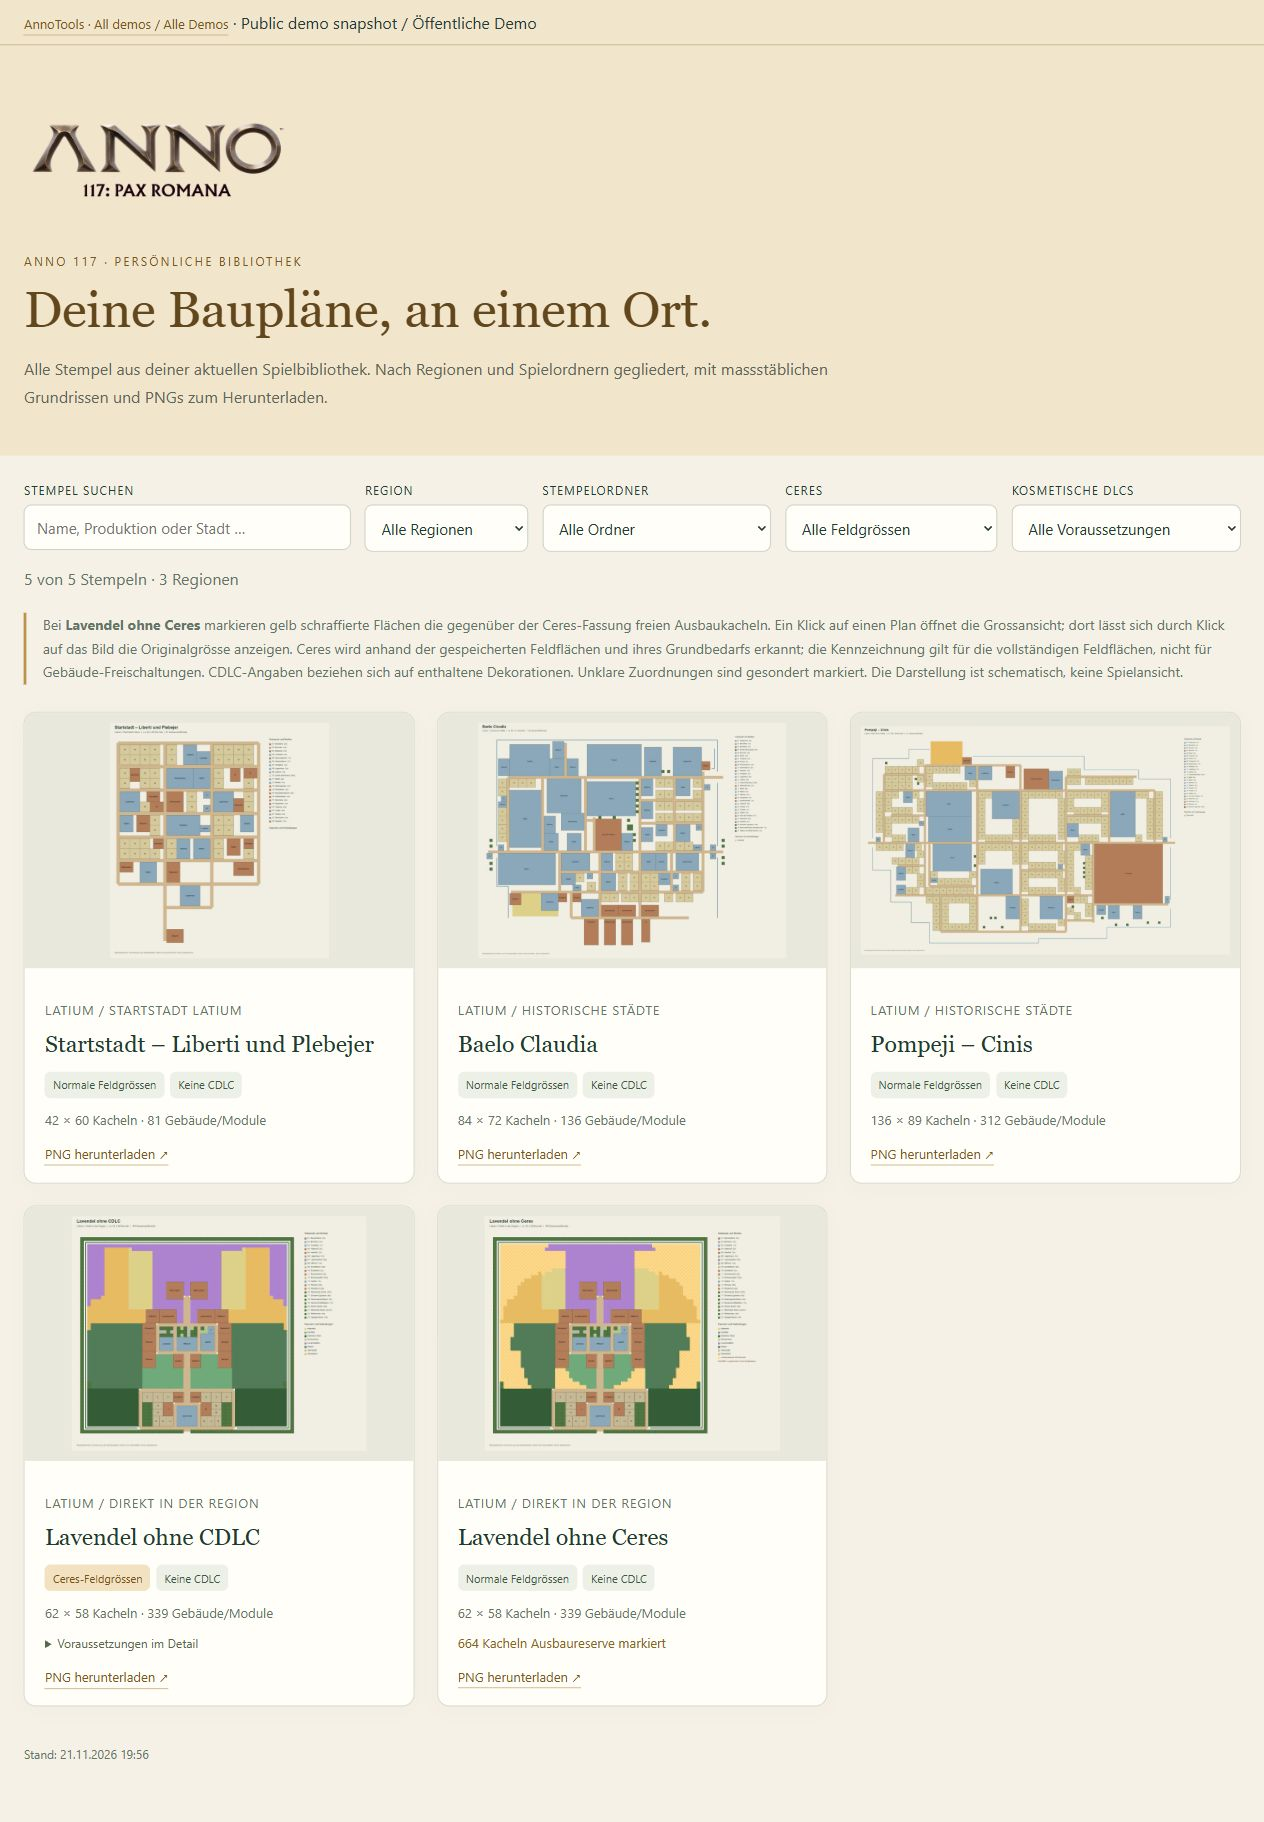
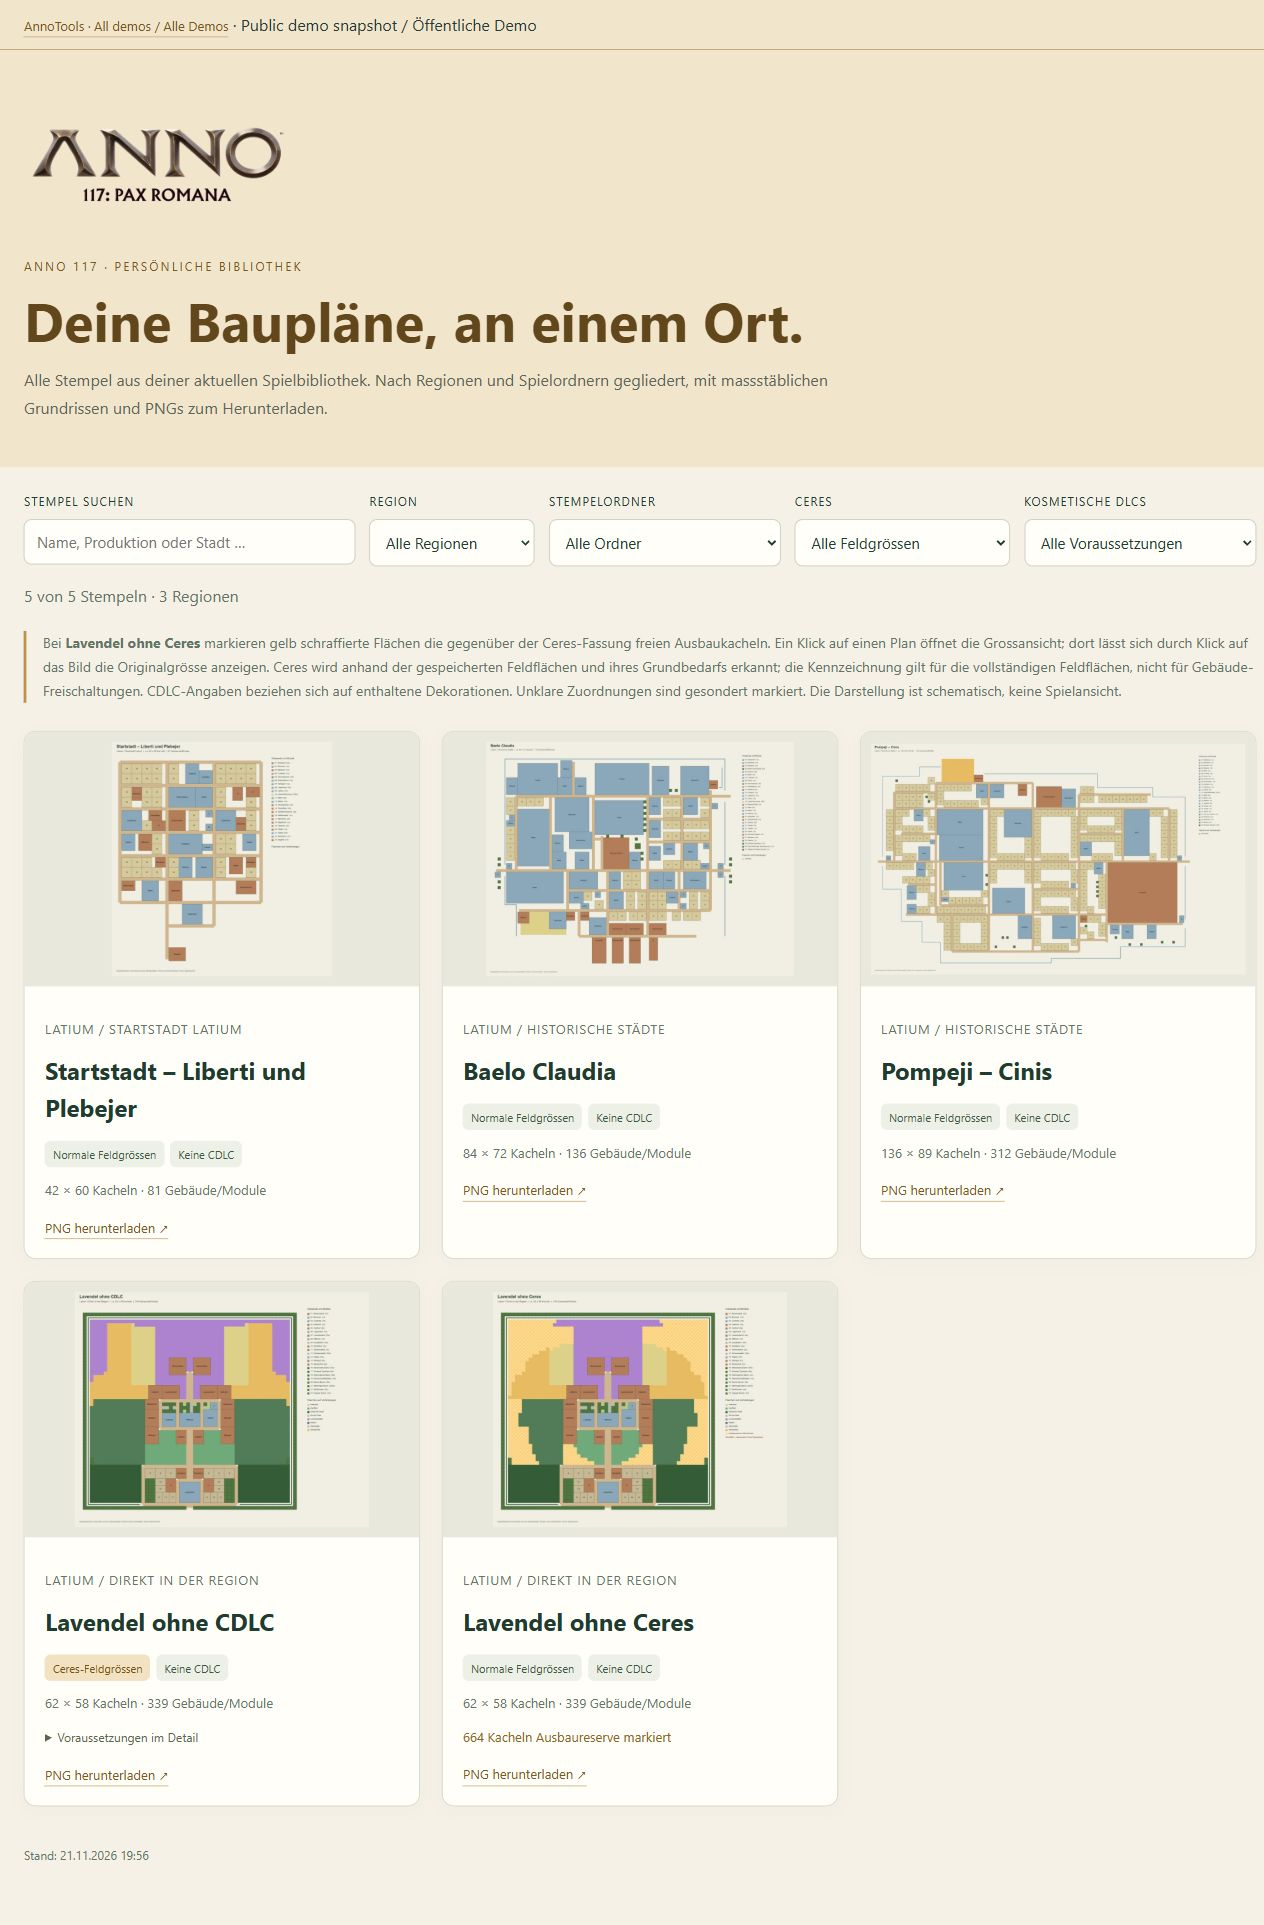
release: unify gallery typography and screenshots for v0.1.5 - Mithilfe von Codex

Changed region(s): [[0.0, 0.0615, 1.0, 0.9528], [0.2777, 0.0, 0.3703, 0.0307]]

diff --git a/site/anno1800/stamps/index.html b/site/anno1800/stamps/index.html
@@ -13,11 +13,12 @@
 </style>
 <style id="gallery-theme">:root{--gallery-scheme:dark;--gallery-background:#173345;--gallery-ink:#edf3ee;--gallery-muted:#bdd0d6;--gallery-heading:#f3d9a4;--gallery-surface:#203f51;--gallery-inset:#284b5d;--gallery-border:#587580;--gallery-link:#a7dde5}
 :root { color-scheme: light; }
-body.gallery-stamp { margin: 0; padding: 0; max-width: none; min-height: 100vh; background: #f5f1e7; color: #203b30; font: 16px system-ui, sans-serif; }
+body.gallery-stamp { margin: 0; padding: 0; max-width: none; min-height: 100vh; background: #f5f1e7; color: #203b30; font: 16px/1.55 system-ui, sans-serif; }
 .gallery-stamp > .gallery-header { padding: 0; margin: 0; border: 0; background: var(--gallery-background); color: var(--gallery-ink); }
 .gallery-stamp .gallery-header-inner { box-sizing: border-box; width: calc(100% - 48px); max-width: 1272px; margin: 0 auto; padding: 40px 0 30px; }
 .gallery-stamp .game-logo { display: block; width: min(100%, 270px); height: auto; max-height: 150px; object-fit: contain; object-position: left center; margin: 0 0 18px; padding: 0; border: 0; border-radius: 0; background: transparent; }
-.gallery-stamp .gallery-header h1 { margin: 12px 0; font: clamp(30px, 4vw, 54px)/1.15 Georgia, serif; color: var(--gallery-heading); }
+.gallery-stamp .gallery-header h1 { margin: 12px 0; font: 700 clamp(2rem, 5vw, 3.4rem)/1.15 system-ui, sans-serif; color: var(--gallery-heading); }
+.gallery-stamp h2 { font: 700 1.5rem/1.55 system-ui, sans-serif; }
 .gallery-stamp .gallery-header p { max-width: 850px; color: var(--gallery-muted); line-height: 1.7; }
 .gallery-stamp .gallery-header .eyebrow { color: var(--gallery-link); }
 .gallery-stamp .gallery-header .summary span { border-color: var(--gallery-border); color: var(--gallery-ink); }

diff --git a/site/anno117/stamps/index.html b/site/anno117/stamps/index.html
@@ -9,11 +9,12 @@
 </style>
 <style id="gallery-theme">:root{--gallery-scheme:light;--gallery-background:#f1e5cc;--gallery-ink:#263b37;--gallery-muted:#5d6657;--gallery-heading:#62461c;--gallery-surface:#fffaf0;--gallery-inset:#e8dcc1;--gallery-border:#baa475;--gallery-link:#79551e}
 :root { color-scheme: light; }
-body.gallery-stamp { margin: 0; padding: 0; max-width: none; min-height: 100vh; background: #f5f1e7; color: #203b30; font: 16px system-ui, sans-serif; }
+body.gallery-stamp { margin: 0; padding: 0; max-width: none; min-height: 100vh; background: #f5f1e7; color: #203b30; font: 16px/1.55 system-ui, sans-serif; }
 .gallery-stamp > .gallery-header { padding: 0; margin: 0; border: 0; background: var(--gallery-background); color: var(--gallery-ink); }
 .gallery-stamp .gallery-header-inner { box-sizing: border-box; width: calc(100% - 48px); max-width: 1272px; margin: 0 auto; padding: 40px 0 30px; }
 .gallery-stamp .game-logo { display: block; width: min(100%, 270px); height: auto; max-height: 150px; object-fit: contain; object-position: left center; margin: 0 0 18px; padding: 0; border: 0; border-radius: 0; background: transparent; }
-.gallery-stamp .gallery-header h1 { margin: 12px 0; font: clamp(30px, 4vw, 54px)/1.15 Georgia, serif; color: var(--gallery-heading); }
+.gallery-stamp .gallery-header h1 { margin: 12px 0; font: 700 clamp(2rem, 5vw, 3.4rem)/1.15 system-ui, sans-serif; color: var(--gallery-heading); }
+.gallery-stamp h2 { font: 700 1.5rem/1.55 system-ui, sans-serif; }
 .gallery-stamp .gallery-header p { max-width: 850px; color: var(--gallery-muted); line-height: 1.7; }
 .gallery-stamp .gallery-header .eyebrow { color: var(--gallery-link); }
 .gallery-stamp .gallery-header .summary span { border-color: var(--gallery-border); color: var(--gallery-ink); }

diff --git a/anno117/tools/gallery_templates/stamp_gallery.css b/anno117/tools/gallery_templates/stamp_gallery.css
@@ -1,9 +1,10 @@
 :root { color-scheme: light; }
-body.gallery-stamp { margin: 0; padding: 0; max-width: none; min-height: 100vh; background: #f5f1e7; color: #203b30; font: 16px system-ui, sans-serif; }
+body.gallery-stamp { margin: 0; padding: 0; max-width: none; min-height: 100vh; background: #f5f1e7; color: #203b30; font: 16px/1.55 system-ui, sans-serif; }
 .gallery-stamp > .gallery-header { padding: 0; margin: 0; border: 0; background: var(--gallery-background); color: var(--gallery-ink); }
 .gallery-stamp .gallery-header-inner { box-sizing: border-box; width: calc(100% - 48px); max-width: 1272px; margin: 0 auto; padding: 40px 0 30px; }
 .gallery-stamp .game-logo { display: block; width: min(100%, 270px); height: auto; max-height: 150px; object-fit: contain; object-position: left center; margin: 0 0 18px; padding: 0; border: 0; border-radius: 0; background: transparent; }
-.gallery-stamp .gallery-header h1 { margin: 12px 0; font: clamp(30px, 4vw, 54px)/1.15 Georgia, serif; color: var(--gallery-heading); }
+.gallery-stamp .gallery-header h1 { margin: 12px 0; font: 700 clamp(2rem, 5vw, 3.4rem)/1.15 system-ui, sans-serif; color: var(--gallery-heading); }
+.gallery-stamp h2 { font: 700 1.5rem/1.55 system-ui, sans-serif; }
 .gallery-stamp .gallery-header p { max-width: 850px; color: var(--gallery-muted); line-height: 1.7; }
 .gallery-stamp .gallery-header .eyebrow { color: var(--gallery-link); }
 .gallery-stamp .gallery-header .summary span { border-color: var(--gallery-border); color: var(--gallery-ink); }

diff --git a/anno1404/tools/gallery_templates/stamp_gallery.css b/anno1404/tools/gallery_templates/stamp_gallery.css
@@ -1,9 +1,10 @@
 :root { color-scheme: light; }
-body.gallery-stamp { margin: 0; padding: 0; max-width: none; min-height: 100vh; background: #f5f1e7; color: #203b30; font: 16px system-ui, sans-serif; }
+body.gallery-stamp { margin: 0; padding: 0; max-width: none; min-height: 100vh; background: #f5f1e7; color: #203b30; font: 16px/1.55 system-ui, sans-serif; }
 .gallery-stamp > .gallery-header { padding: 0; margin: 0; border: 0; background: var(--gallery-background); color: var(--gallery-ink); }
 .gallery-stamp .gallery-header-inner { box-sizing: border-box; width: calc(100% - 48px); max-width: 1272px; margin: 0 auto; padding: 40px 0 30px; }
 .gallery-stamp .game-logo { display: block; width: min(100%, 270px); height: auto; max-height: 150px; object-fit: contain; object-position: left center; margin: 0 0 18px; padding: 0; border: 0; border-radius: 0; background: transparent; }
-.gallery-stamp .gallery-header h1 { margin: 12px 0; font: clamp(30px, 4vw, 54px)/1.15 Georgia, serif; color: var(--gallery-heading); }
+.gallery-stamp .gallery-header h1 { margin: 12px 0; font: 700 clamp(2rem, 5vw, 3.4rem)/1.15 system-ui, sans-serif; color: var(--gallery-heading); }
+.gallery-stamp h2 { font: 700 1.5rem/1.55 system-ui, sans-serif; }
 .gallery-stamp .gallery-header p { max-width: 850px; color: var(--gallery-muted); line-height: 1.7; }
 .gallery-stamp .gallery-header .eyebrow { color: var(--gallery-link); }
 .gallery-stamp .gallery-header .summary span { border-color: var(--gallery-border); color: var(--gallery-ink); }

diff --git a/anno1800/tools/gallery_templates/stamp_gallery.css b/anno1800/tools/gallery_templates/stamp_gallery.css
@@ -1,9 +1,10 @@
 :root { color-scheme: light; }
-body.gallery-stamp { margin: 0; padding: 0; max-width: none; min-height: 100vh; background: #f5f1e7; color: #203b30; font: 16px system-ui, sans-serif; }
+body.gallery-stamp { margin: 0; padding: 0; max-width: none; min-height: 100vh; background: #f5f1e7; color: #203b30; font: 16px/1.55 system-ui, sans-serif; }
 .gallery-stamp > .gallery-header { padding: 0; margin: 0; border: 0; background: var(--gallery-background); color: var(--gallery-ink); }
 .gallery-stamp .gallery-header-inner { box-sizing: border-box; width: calc(100% - 48px); max-width: 1272px; margin: 0 auto; padding: 40px 0 30px; }
 .gallery-stamp .game-logo { display: block; width: min(100%, 270px); height: auto; max-height: 150px; object-fit: contain; object-position: left center; margin: 0 0 18px; padding: 0; border: 0; border-radius: 0; background: transparent; }
-.gallery-stamp .gallery-header h1 { margin: 12px 0; font: clamp(30px, 4vw, 54px)/1.15 Georgia, serif; color: var(--gallery-heading); }
+.gallery-stamp .gallery-header h1 { margin: 12px 0; font: 700 clamp(2rem, 5vw, 3.4rem)/1.15 system-ui, sans-serif; color: var(--gallery-heading); }
+.gallery-stamp h2 { font: 700 1.5rem/1.55 system-ui, sans-serif; }
 .gallery-stamp .gallery-header p { max-width: 850px; color: var(--gallery-muted); line-height: 1.7; }
 .gallery-stamp .gallery-header .eyebrow { color: var(--gallery-link); }
 .gallery-stamp .gallery-header .summary span { border-color: var(--gallery-border); color: var(--gallery-ink); }

diff --git a/templates/stamp_gallery.css b/templates/stamp_gallery.css
@@ -1,9 +1,10 @@
 :root { color-scheme: light; }
-body.gallery-stamp { margin: 0; padding: 0; max-width: none; min-height: 100vh; background: #f5f1e7; color: #203b30; font: 16px system-ui, sans-serif; }
+body.gallery-stamp { margin: 0; padding: 0; max-width: none; min-height: 100vh; background: #f5f1e7; color: #203b30; font: 16px/1.55 system-ui, sans-serif; }
 .gallery-stamp > .gallery-header { padding: 0; margin: 0; border: 0; background: var(--gallery-background); color: var(--gallery-ink); }
 .gallery-stamp .gallery-header-inner { box-sizing: border-box; width: calc(100% - 48px); max-width: 1272px; margin: 0 auto; padding: 40px 0 30px; }
 .gallery-stamp .game-logo { display: block; width: min(100%, 270px); height: auto; max-height: 150px; object-fit: contain; object-position: left center; margin: 0 0 18px; padding: 0; border: 0; border-radius: 0; background: transparent; }
-.gallery-stamp .gallery-header h1 { margin: 12px 0; font: clamp(30px, 4vw, 54px)/1.15 Georgia, serif; color: var(--gallery-heading); }
+.gallery-stamp .gallery-header h1 { margin: 12px 0; font: 700 clamp(2rem, 5vw, 3.4rem)/1.15 system-ui, sans-serif; color: var(--gallery-heading); }
+.gallery-stamp h2 { font: 700 1.5rem/1.55 system-ui, sans-serif; }
 .gallery-stamp .gallery-header p { max-width: 850px; color: var(--gallery-muted); line-height: 1.7; }
 .gallery-stamp .gallery-header .eyebrow { color: var(--gallery-link); }
 .gallery-stamp .gallery-header .summary span { border-color: var(--gallery-border); color: var(--gallery-ink); }

diff --git a/site/anno117/maps/index.html b/site/anno117/maps/index.html
@@ -56,6 +56,7 @@ body.gallery-map { margin: 0; padding: 0; max-width: none; min-height: 100vh; ba
 .gallery-map .gallery-header { padding: 0 0 22px; margin: 0 0 24px; border-bottom: 1px solid var(--gallery-border); background: transparent; color: var(--gallery-ink); }
 .gallery-map .game-logo { display: block; width: min(100%, 270px); height: auto; max-height: 150px; object-fit: contain; object-position: left center; margin: 0 0 18px; padding: 0; border: 0; border-radius: 0; background: transparent; }
 .gallery-map h1 { font: 700 clamp(2rem, 5vw, 3.4rem)/1.15 system-ui, sans-serif; margin: 0 0 10px; color: var(--gallery-heading); }
+.gallery-map h2 { font: 700 1.5rem/1.55 system-ui, sans-serif; }
 .gallery-map h2, .gallery-map .delta { color: var(--gallery-heading); }
 .gallery-map .gallery-scope { margin: 8px 0; font-weight: 600; }
 .gallery-map .gallery-updated { display: block; margin: 8px 0; font-size: 14px; color: var(--gallery-muted); }

diff --git a/site/anno1404/maps/index.html b/site/anno1404/maps/index.html
@@ -47,6 +47,7 @@ body.gallery-map { margin: 0; padding: 0; max-width: none; min-height: 100vh; ba
 .gallery-map .gallery-header { padding: 0 0 22px; margin: 0 0 24px; border-bottom: 1px solid var(--gallery-border); background: transparent; color: var(--gallery-ink); }
 .gallery-map .game-logo { display: block; width: min(100%, 270px); height: auto; max-height: 150px; object-fit: contain; object-position: left center; margin: 0 0 18px; padding: 0; border: 0; border-radius: 0; background: transparent; }
 .gallery-map h1 { font: 700 clamp(2rem, 5vw, 3.4rem)/1.15 system-ui, sans-serif; margin: 0 0 10px; color: var(--gallery-heading); }
+.gallery-map h2 { font: 700 1.5rem/1.55 system-ui, sans-serif; }
 .gallery-map h2, .gallery-map .delta { color: var(--gallery-heading); }
 .gallery-map .gallery-scope { margin: 8px 0; font-weight: 600; }
 .gallery-map .gallery-updated { display: block; margin: 8px 0; font-size: 14px; color: var(--gallery-muted); }

diff --git a/site/anno1800/maps/index.html b/site/anno1800/maps/index.html
@@ -35,6 +35,7 @@ body.gallery-map { margin: 0; padding: 0; max-width: none; min-height: 100vh; ba
 .gallery-map .gallery-header { padding: 0 0 22px; margin: 0 0 24px; border-bottom: 1px solid var(--gallery-border); background: transparent; color: var(--gallery-ink); }
 .gallery-map .game-logo { display: block; width: min(100%, 270px); height: auto; max-height: 150px; object-fit: contain; object-position: left center; margin: 0 0 18px; padding: 0; border: 0; border-radius: 0; background: transparent; }
 .gallery-map h1 { font: 700 clamp(2rem, 5vw, 3.4rem)/1.15 system-ui, sans-serif; margin: 0 0 10px; color: var(--gallery-heading); }
+.gallery-map h2 { font: 700 1.5rem/1.55 system-ui, sans-serif; }
 .gallery-map h2, .gallery-map .delta { color: var(--gallery-heading); }
 .gallery-map .gallery-scope { margin: 8px 0; font-weight: 600; }
 .gallery-map .gallery-updated { display: block; margin: 8px 0; font-size: 14px; color: var(--gallery-muted); }

diff --git a/anno117/tools/gallery_templates/map_gallery.css b/anno117/tools/gallery_templates/map_gallery.css
@@ -4,6 +4,7 @@ body.gallery-map { margin: 0; padding: 0; max-width: none; min-height: 100vh; ba
 .gallery-map .gallery-header { padding: 0 0 22px; margin: 0 0 24px; border-bottom: 1px solid var(--gallery-border); background: transparent; color: var(--gallery-ink); }
 .gallery-map .game-logo { display: block; width: min(100%, 270px); height: auto; max-height: 150px; object-fit: contain; object-position: left center; margin: 0 0 18px; padding: 0; border: 0; border-radius: 0; background: transparent; }
 .gallery-map h1 { font: 700 clamp(2rem, 5vw, 3.4rem)/1.15 system-ui, sans-serif; margin: 0 0 10px; color: var(--gallery-heading); }
+.gallery-map h2 { font: 700 1.5rem/1.55 system-ui, sans-serif; }
 .gallery-map h2, .gallery-map .delta { color: var(--gallery-heading); }
 .gallery-map .gallery-scope { margin: 8px 0; font-weight: 600; }
 .gallery-map .gallery-updated { display: block; margin: 8px 0; font-size: 14px; color: var(--gallery-muted); }

diff --git a/anno1404/tools/gallery_templates/map_gallery.css b/anno1404/tools/gallery_templates/map_gallery.css
@@ -4,6 +4,7 @@ body.gallery-map { margin: 0; padding: 0; max-width: none; min-height: 100vh; ba
 .gallery-map .gallery-header { padding: 0 0 22px; margin: 0 0 24px; border-bottom: 1px solid var(--gallery-border); background: transparent; color: var(--gallery-ink); }
 .gallery-map .game-logo { display: block; width: min(100%, 270px); height: auto; max-height: 150px; object-fit: contain; object-position: left center; margin: 0 0 18px; padding: 0; border: 0; border-radius: 0; background: transparent; }
 .gallery-map h1 { font: 700 clamp(2rem, 5vw, 3.4rem)/1.15 system-ui, sans-serif; margin: 0 0 10px; color: var(--gallery-heading); }
+.gallery-map h2 { font: 700 1.5rem/1.55 system-ui, sans-serif; }
 .gallery-map h2, .gallery-map .delta { color: var(--gallery-heading); }
 .gallery-map .gallery-scope { margin: 8px 0; font-weight: 600; }
 .gallery-map .gallery-updated { display: block; margin: 8px 0; font-size: 14px; color: var(--gallery-muted); }

diff --git a/anno1800/tools/gallery_templates/map_gallery.css b/anno1800/tools/gallery_templates/map_gallery.css
@@ -4,6 +4,7 @@ body.gallery-map { margin: 0; padding: 0; max-width: none; min-height: 100vh; ba
 .gallery-map .gallery-header { padding: 0 0 22px; margin: 0 0 24px; border-bottom: 1px solid var(--gallery-border); background: transparent; color: var(--gallery-ink); }
 .gallery-map .game-logo { display: block; width: min(100%, 270px); height: auto; max-height: 150px; object-fit: contain; object-position: left center; margin: 0 0 18px; padding: 0; border: 0; border-radius: 0; background: transparent; }
 .gallery-map h1 { font: 700 clamp(2rem, 5vw, 3.4rem)/1.15 system-ui, sans-serif; margin: 0 0 10px; color: var(--gallery-heading); }
+.gallery-map h2 { font: 700 1.5rem/1.55 system-ui, sans-serif; }
 .gallery-map h2, .gallery-map .delta { color: var(--gallery-heading); }
 .gallery-map .gallery-scope { margin: 8px 0; font-weight: 600; }
 .gallery-map .gallery-updated { display: block; margin: 8px 0; font-size: 14px; color: var(--gallery-muted); }
